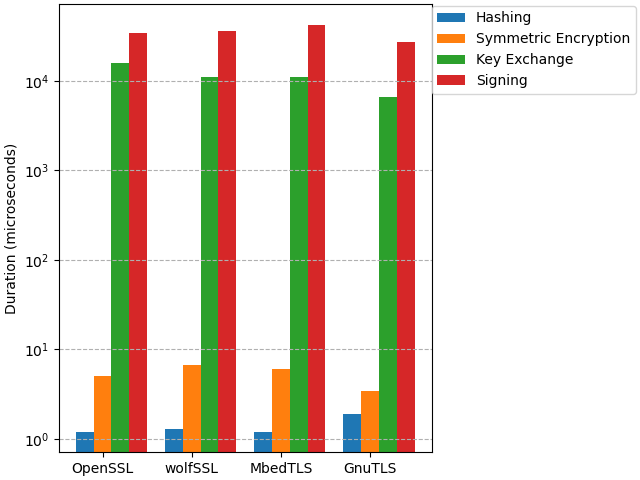
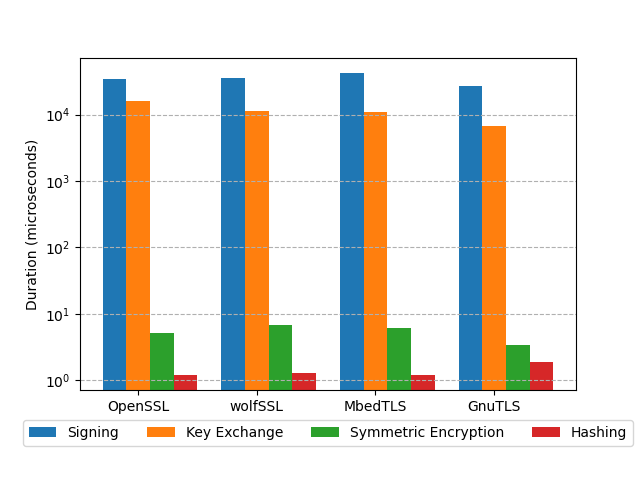
sdf

diff --git a/plots/time_ffdh2048_rsa3072_aes128gcm_sha256.py b/plots/time_ffdh2048_rsa3072_aes128gcm_sha256.py
@@ -49,10 +49,21 @@ for boolean, dur in durs.items():
 ax.set_ylabel('Duration (microseconds)')
 # ax.set_title('Execution time breadown')
 # ax.set_xticks(x + width, libs)
-ax.legend(loc=(1, 0.8))
-ylim = 0
-for index, (key, value) in enumerate(durs.items()):
-    ylim += max(durs[key])
+# ax.legend(loc=(1, 0.8))
+
+# https://stackoverflow.com/questions/4700614/how-to-put-the-legend-outside-the-plot
+box = ax.get_position()
+ax.set_position([box.x0+ box.width * 0.1, box.y0 + box.height * 0.1,
+                 box.width, box.height * 0.9])
+
+# Put a legend below current axis
+ax.legend(loc='upper center', bbox_to_anchor=(0.4, -0.07), ncol=5)
+
+dur_osl = durs['Hashing'][0] + durs['Key Exchange'][0] + durs['Signing'][0] + durs['Hashing'][0]
+dur_wsl = durs['Hashing'][1] + durs['Key Exchange'][1] + durs['Signing'][1] + durs['Hashing'][1]
+dur_mbd = durs['Hashing'][2] + durs['Key Exchange'][2] + durs['Signing'][2] + durs['Hashing'][2]
+dur_gtl = durs['Hashing'][3] + durs['Key Exchange'][3] + durs['Signing'][3] + durs['Hashing'][3]
+ylim = max(dur_osl,dur_wsl,dur_mbd,dur_gtl)
 ax.set_ylim(0, ylim)
 # ax.set_yscale('log')
 ax.minorticks_off()

diff --git a/plots/time_invall.py b/plots/time_invall.py
@@ -21,10 +21,10 @@ import numpy as np
 
 libs = ('OpenSSL', 'wolfSSL', 'MbedTLS', 'GnuTLS')
 durs = {
-    'Hashing': (1.2, 1.3, 1.2, 1.9),
-    'Symmetric Encryption': (5.1, 6.7, 6.1, 3.4),
-    'Key Exchange': (15821.5, 11122.2, 11044, 6616.3),
-    'Signing': (34626.8, 35588, 42559, 27226.1),      
+    'Signing': (34626.8, 35588, 42559, 27226.1), 
+    'Key Exchange': (15821.5, 11122.2, 11044, 6616.3),   
+    'Symmetric Encryption': (5.1, 6.7, 6.1, 3.4), 
+    'Hashing': (1.2, 1.3, 1.2, 1.9), 
 }
 
 x = np.arange(len(libs))  # the label locations
@@ -42,7 +42,15 @@ for lib, dur in durs.items():
 ax.set_ylabel('Duration (microseconds)')
 # ax.set_title('Execution time of single direct invocation')
 ax.set_xticks(x + width, libs)
-ax.legend(loc=(1, 0.8))
+# ax.legend(loc=(0, 0.8))
+
+box = ax.get_position()
+ax.set_position([box.x0, box.y0 + box.height * 0.1,
+                 box.width, box.height * 0.9])
+
+# Put a legend below current axis
+ax.legend(loc='upper center', bbox_to_anchor=(0.5, -0.07), ncol=5)
+
 # ax.set_ylim(0, 100000)
 ax.set_yscale('log')
 ax.minorticks_off()
